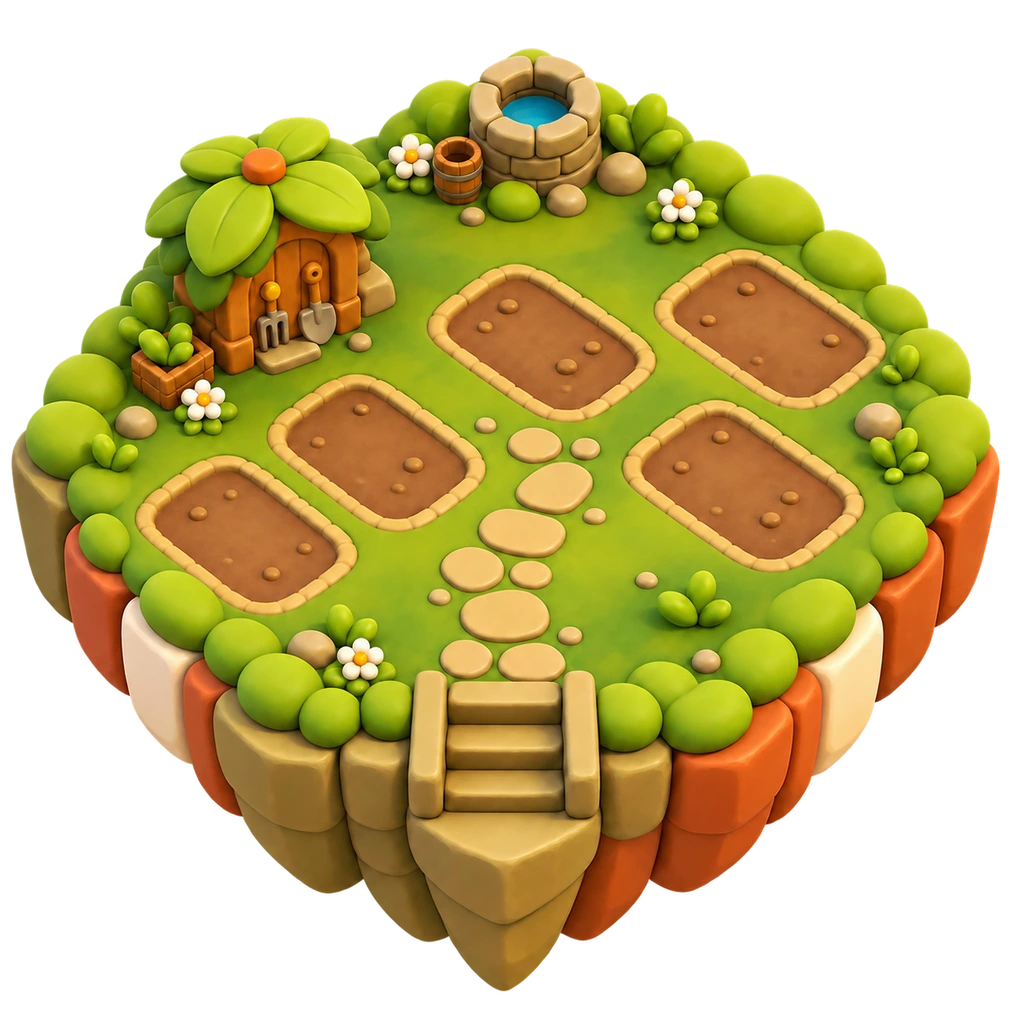
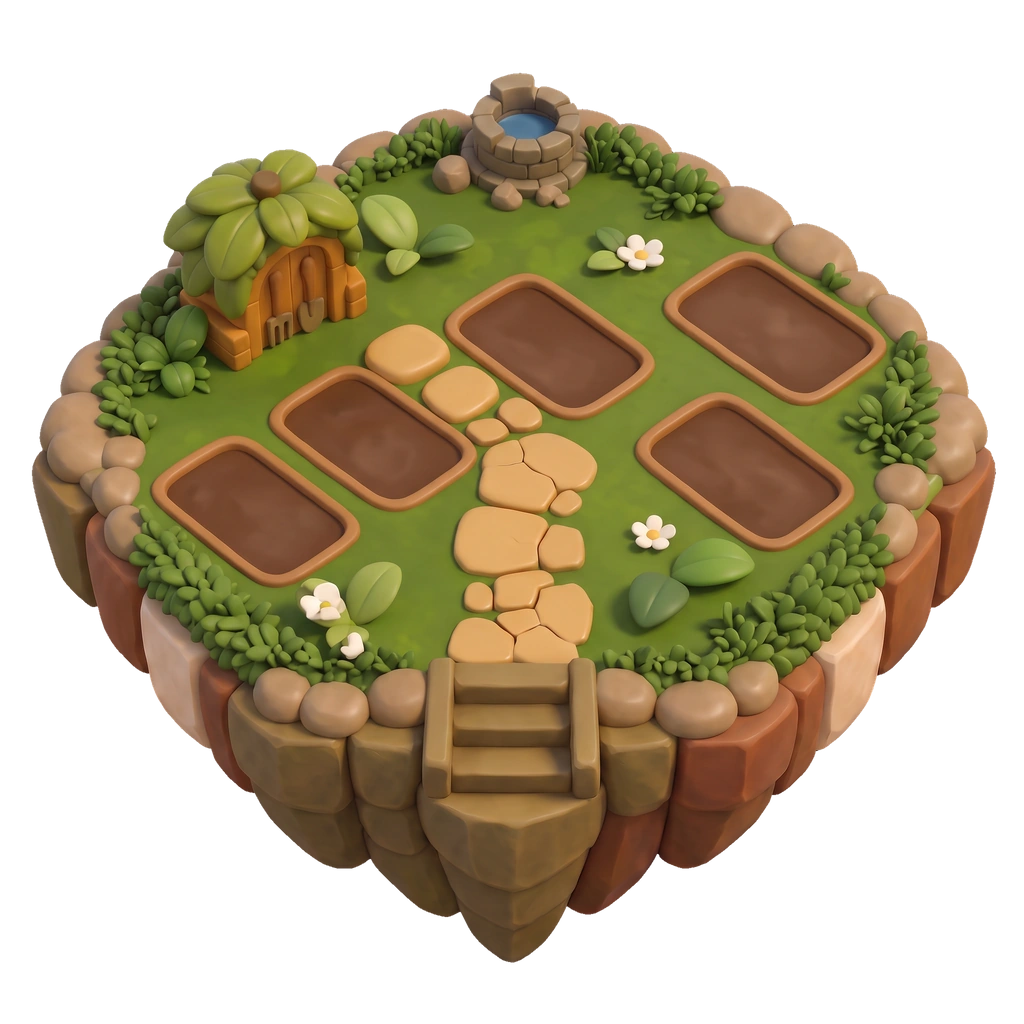
improve garden tile graphics art style

diff --git a/katchimeras/scripts/package-mossprout-memory-garden.py b/katchimeras/scripts/package-mossprout-memory-garden.py
@@ -11,6 +11,7 @@ from PIL import Image, ImageChops, ImageDraw
 
 ROOT = Path(__file__).resolve().parents[1]
 SOURCE_DIR = ROOT / "design" / "mossprout-memory-garden-v1"
+GENERATED_GARDEN_DIR = ROOT / "design" / "mossprout-hex-neighborhood-v1"
 HEX_DIR = ROOT / "assets" / "images" / "katchimeras" / "world" / "hex"
 PLANT_DIR = ROOT / "assets" / "images" / "katchimeras" / "world" / "memory-plants"
 FAMILIES = ("momentum", "stillness", "renewal", "warmth", "curiosity")
@@ -53,8 +54,15 @@ def remove_connected_checkerboard(source: Image.Image) -> Image.Image:
 
 
 def package_garden(level: int) -> None:
-    with Image.open(SOURCE_DIR / f"garden-level-{level}-source.png") as opened:
-        garden = remove_connected_checkerboard(opened)
+    generated_stem = "memory-garden-unrestored" if level == 0 else "memory-garden-restored"
+    generated_alpha = GENERATED_GARDEN_DIR / f"{generated_stem}-alpha.png"
+    if not generated_alpha.exists():
+        raise RuntimeError(
+            f"Missing Nano Banana garden master: {generated_alpha.relative_to(ROOT)}. "
+            "Generate and promote it through scripts/generate-mossprout-hex-neighborhood.py first."
+        )
+    with Image.open(generated_alpha) as opened:
+        garden = opened.convert("RGBA")
     garden = resize_premultiplied(garden, (1024, 1024))
     for side, suffix in ((1024, ""), (512, "_512"), (256, "_256")):
         output = HEX_DIR / f"mossprout_memory_garden_level_{level}{suffix}.webp"

diff --git a/katchimeras/scripts/generate-mossprout-hex-neighborhood.py b/katchimeras/scripts/generate-mossprout-hex-neighborhood.py
@@ -58,12 +58,27 @@ def candidate_source(key: str) -> Path:
     return OUT_ROOT / key / "candidate-1.png"
 
 
+def completed_candidate(key: str) -> Path | None:
+    candidate = candidate_source(key)
+    records_path = candidate.parent / "candidates.json"
+    if not candidate.exists() or not records_path.exists():
+        return None
+    try:
+        records = json.loads(records_path.read_text(encoding="utf-8"))
+    except (OSError, json.JSONDecodeError):
+        return None
+    record = records[0] if isinstance(records, list) and len(records) == 1 else None
+    if not isinstance(record, dict) or record.get("status") != "generated" or record.get("visualKey") != key:
+        return None
+    return candidate
+
+
 def resolve_base(tile: dict, generated: set[str]) -> Path:
     if tile.get("base"):
         return ROOT / tile["base"]
     dependency = str(tile["baseTile"])
-    candidate = candidate_source(dependency)
-    if dependency in generated and candidate.exists():
+    candidate = completed_candidate(dependency)
+    if candidate is not None:
         return candidate
     return published_source(dependency)
 

diff --git a/katchimeras/scripts/package-mossprout-hex-neighborhood.py b/katchimeras/scripts/package-mossprout-hex-neighborhood.py
@@ -23,6 +23,9 @@ MANIFEST_PATH = DESIGN_ROOT / "pipeline.json"
 ASSETS = (
     ("main", "mossprout_focused_v1_main_hex_tile"),
     ("garden", "mossprout_focused_v1_garden_hex_tile"),
+    ("memory-garden-unrestored", "mossprout_memory_garden_level_0"),
+    ("memory-garden-restored", "mossprout_memory_garden_level_1"),
+    ("memory-garden-restored", "mossprout_memory_garden_level_2"),
     ("seed-nursery", "mossprout_focused_v1_seed_nursery_hex_tile"),
     ("bloom-garden", "mossprout_focused_v1_bloom_garden_hex_tile"),
     ("pond-sanctuary", "mossprout_focused_v1_pond_sanctuary_hex_tile"),
